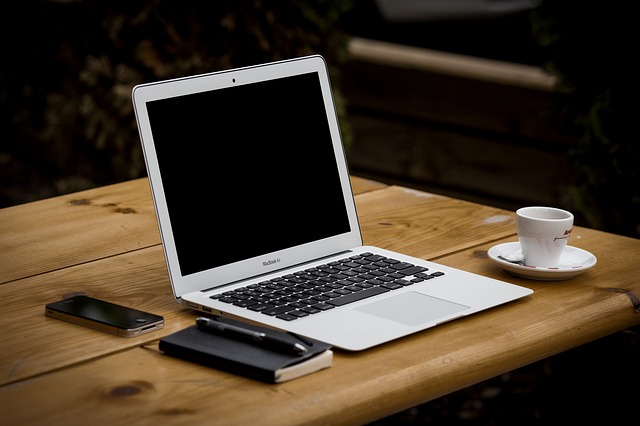
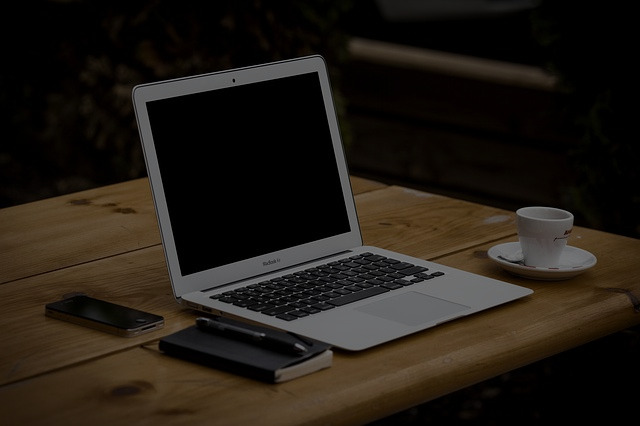
Fixes layout problems with small screen devices. Fixes readability issue with landing image.

diff --git a/pages/portfolio/page.js b/pages/portfolio/page.js
@@ -47,6 +47,14 @@ class PortfolioPage extends BasePage {
         return pug.renderFile(CONTENT_FILE_PATH, context);
     }
 
+    getScript() {
+        return '/dist/portfolio.bundle.js';
+    }
+
+    getStyles() {
+        return '/dist/portfolio.css';
+    }
+
 }
 
 module.exports = PortfolioPage;

diff --git a/pages/portfolio/styles.scss b/pages/portfolio/styles.scss
@@ -1,0 +1,11 @@
+/**
+ * Defines /portfolio/ styles
+ */
+@import '../../node_modules/bootstrap/scss/bootstrap-grid.scss';
+.portfolio {
+    @include media-breakpoint-down(xs) {
+        .media {
+            flex-direction: column;
+        }
+    }
+}

diff --git a/webpack.common.js b/webpack.common.js
@@ -6,6 +6,7 @@ module.exports = {
   entry: {
     'home': path.resolve(pagesFolder, 'home'),
     'blog': path.resolve(pagesFolder, 'blog'),
+    'portfolio': path.resolve(pagesFolder, 'portfolio'),
   },
   output: {
     filename: '[name].bundle.js',

diff --git a/pages/home/styles.scss b/pages/home/styles.scss
@@ -15,3 +15,10 @@
     background-position: cover;
     text-shadow: 0 0 8px black;
 }
+#about {
+    @include media-breakpoint-down(xs) {
+        .media {
+            flex-direction: column;
+        }
+    }
+}

diff --git a/pages/portfolio/index.js b/pages/portfolio/index.js
@@ -1,0 +1,1 @@
+import './styles.scss';
